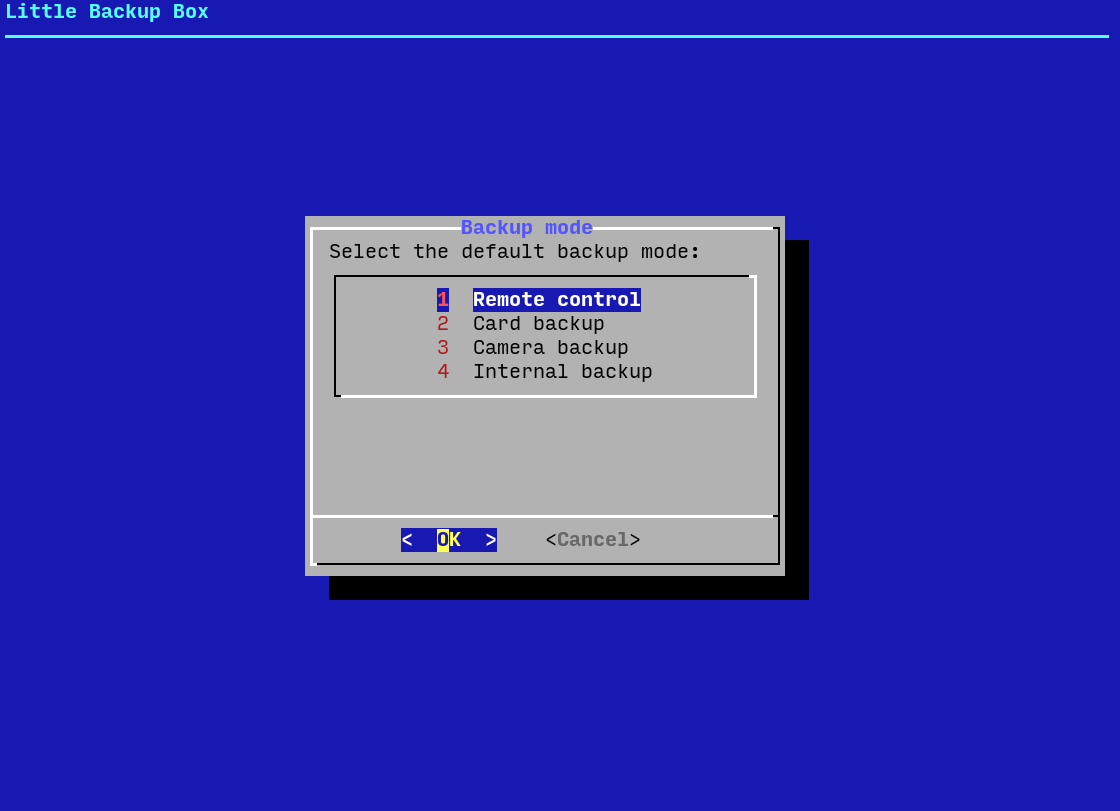
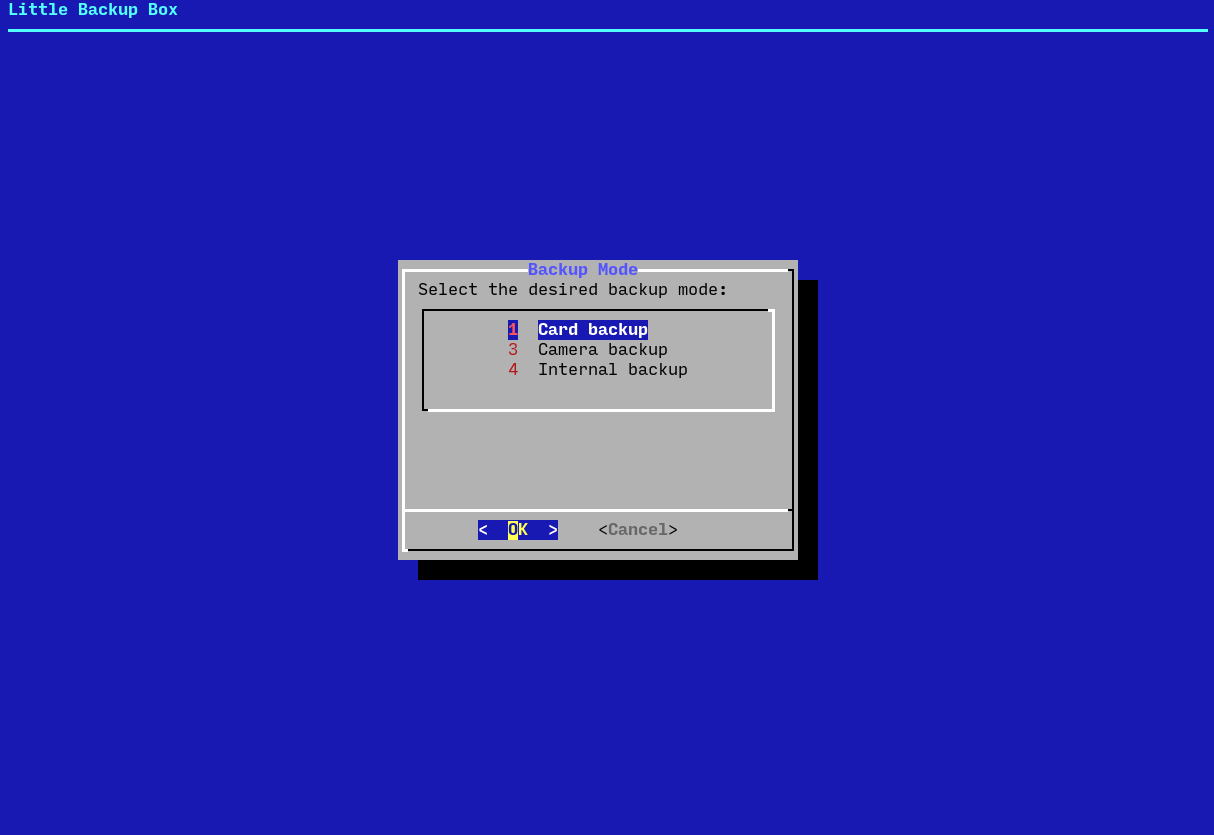
Default remote mode

Changed region(s): [[0.25, 0.2466, 0.75, 0.7398], [0.0, 0.0, 1.0, 0.0617]]

diff --git a/scripts/index.php b/scripts/index.php
@@ -66,6 +66,9 @@
 	    <?php
 	    if (isset($_POST['cardbackup']))
 	    {
+		shell_exec('sudo pkill -f card-backup*');
+		shell_exec('sudo umount /media/storage');
+		shell_exec('sudo shutdown -c');
 		shell_exec('sudo ./card-backup.sh > /dev/null 2>&1 & echo $!');
 		echo '<script language="javascript">';
 		echo 'alert("'.L::cardbackup_msg.'")';
@@ -73,6 +76,9 @@
 	    }
 	    if (isset($_POST['camerabackup']))
 	    {
+		shell_exec('sudo pkill -f camera-backup*');
+		shell_exec('sudo umount /media/storage');
+		shell_exec('sudo shutdown -c');
 		shell_exec('sudo ./camera-backup.sh > /dev/null 2>&1 & echo $!');
 		echo '<script language="javascript">';
 		echo 'alert("'.L::camerabackup_msg.'")';
@@ -80,6 +86,9 @@
 	    }
 	    if (isset($_POST['internalbackup']))
 	    {
+		shell_exec('sudo pkill -f internal-backup*');
+		shell_exec('sudo umount /media/storage');
+		shell_exec('sudo shutdown -c');
 		shell_exec('sudo ./internal-backup.sh > /dev/null 2>&1 & echo $!');
 		echo '<script language="javascript">';
 		echo 'alert("'.L::internalbackup_msg.'")';

diff --git a/README.md b/README.md
@@ -25,9 +25,8 @@ Little Backup Box is designed to work with USB sticks as backup media. Theoretic
 2. Make sure that your Raspberry Pi is connected to the internet.
 3. Run the following command on the Raspberry Pi: `curl -sSL https://is.gd/littlebackupbox | bash`
 
-Little Backup Box supports four backup modes:
+Little Backup Box supports three backup modes:
 
-- **Remote control** Provides a simple web interface to manually choose one of the two modes described above.
 - **Card backup** Automatically backs up the contents of a storage card to an external storage device.
 - **Camera backup** Transfers photos, raw files, and videos from the camera connected directly to the Raspberry Pi. The transferred files are saved in the */home/pi/BACKUP/[CAMERA MODEL]* directory on the system storage card. **Important** Make sure that the camera is set to the MTP USB connection mode.
 - **Internal backup** Automatically backs up the contents of a storage card to the internal storage.
@@ -43,6 +42,8 @@ When prompted, reboot the Raspberry Pi.
 The exact steps depend on the backup mode.
 
 ### Remote control mode
+
+The remote control mode is enabled by default. This mode allows you to control and manage Little Backup Box via a web UI. 
 
 1. Point the browser to *http://127.0.0.1* (replace *127.0.0.1* with the actual IP address of the Raspberry Pi).
 2. Start the desired action by pressing the appropriate button.
